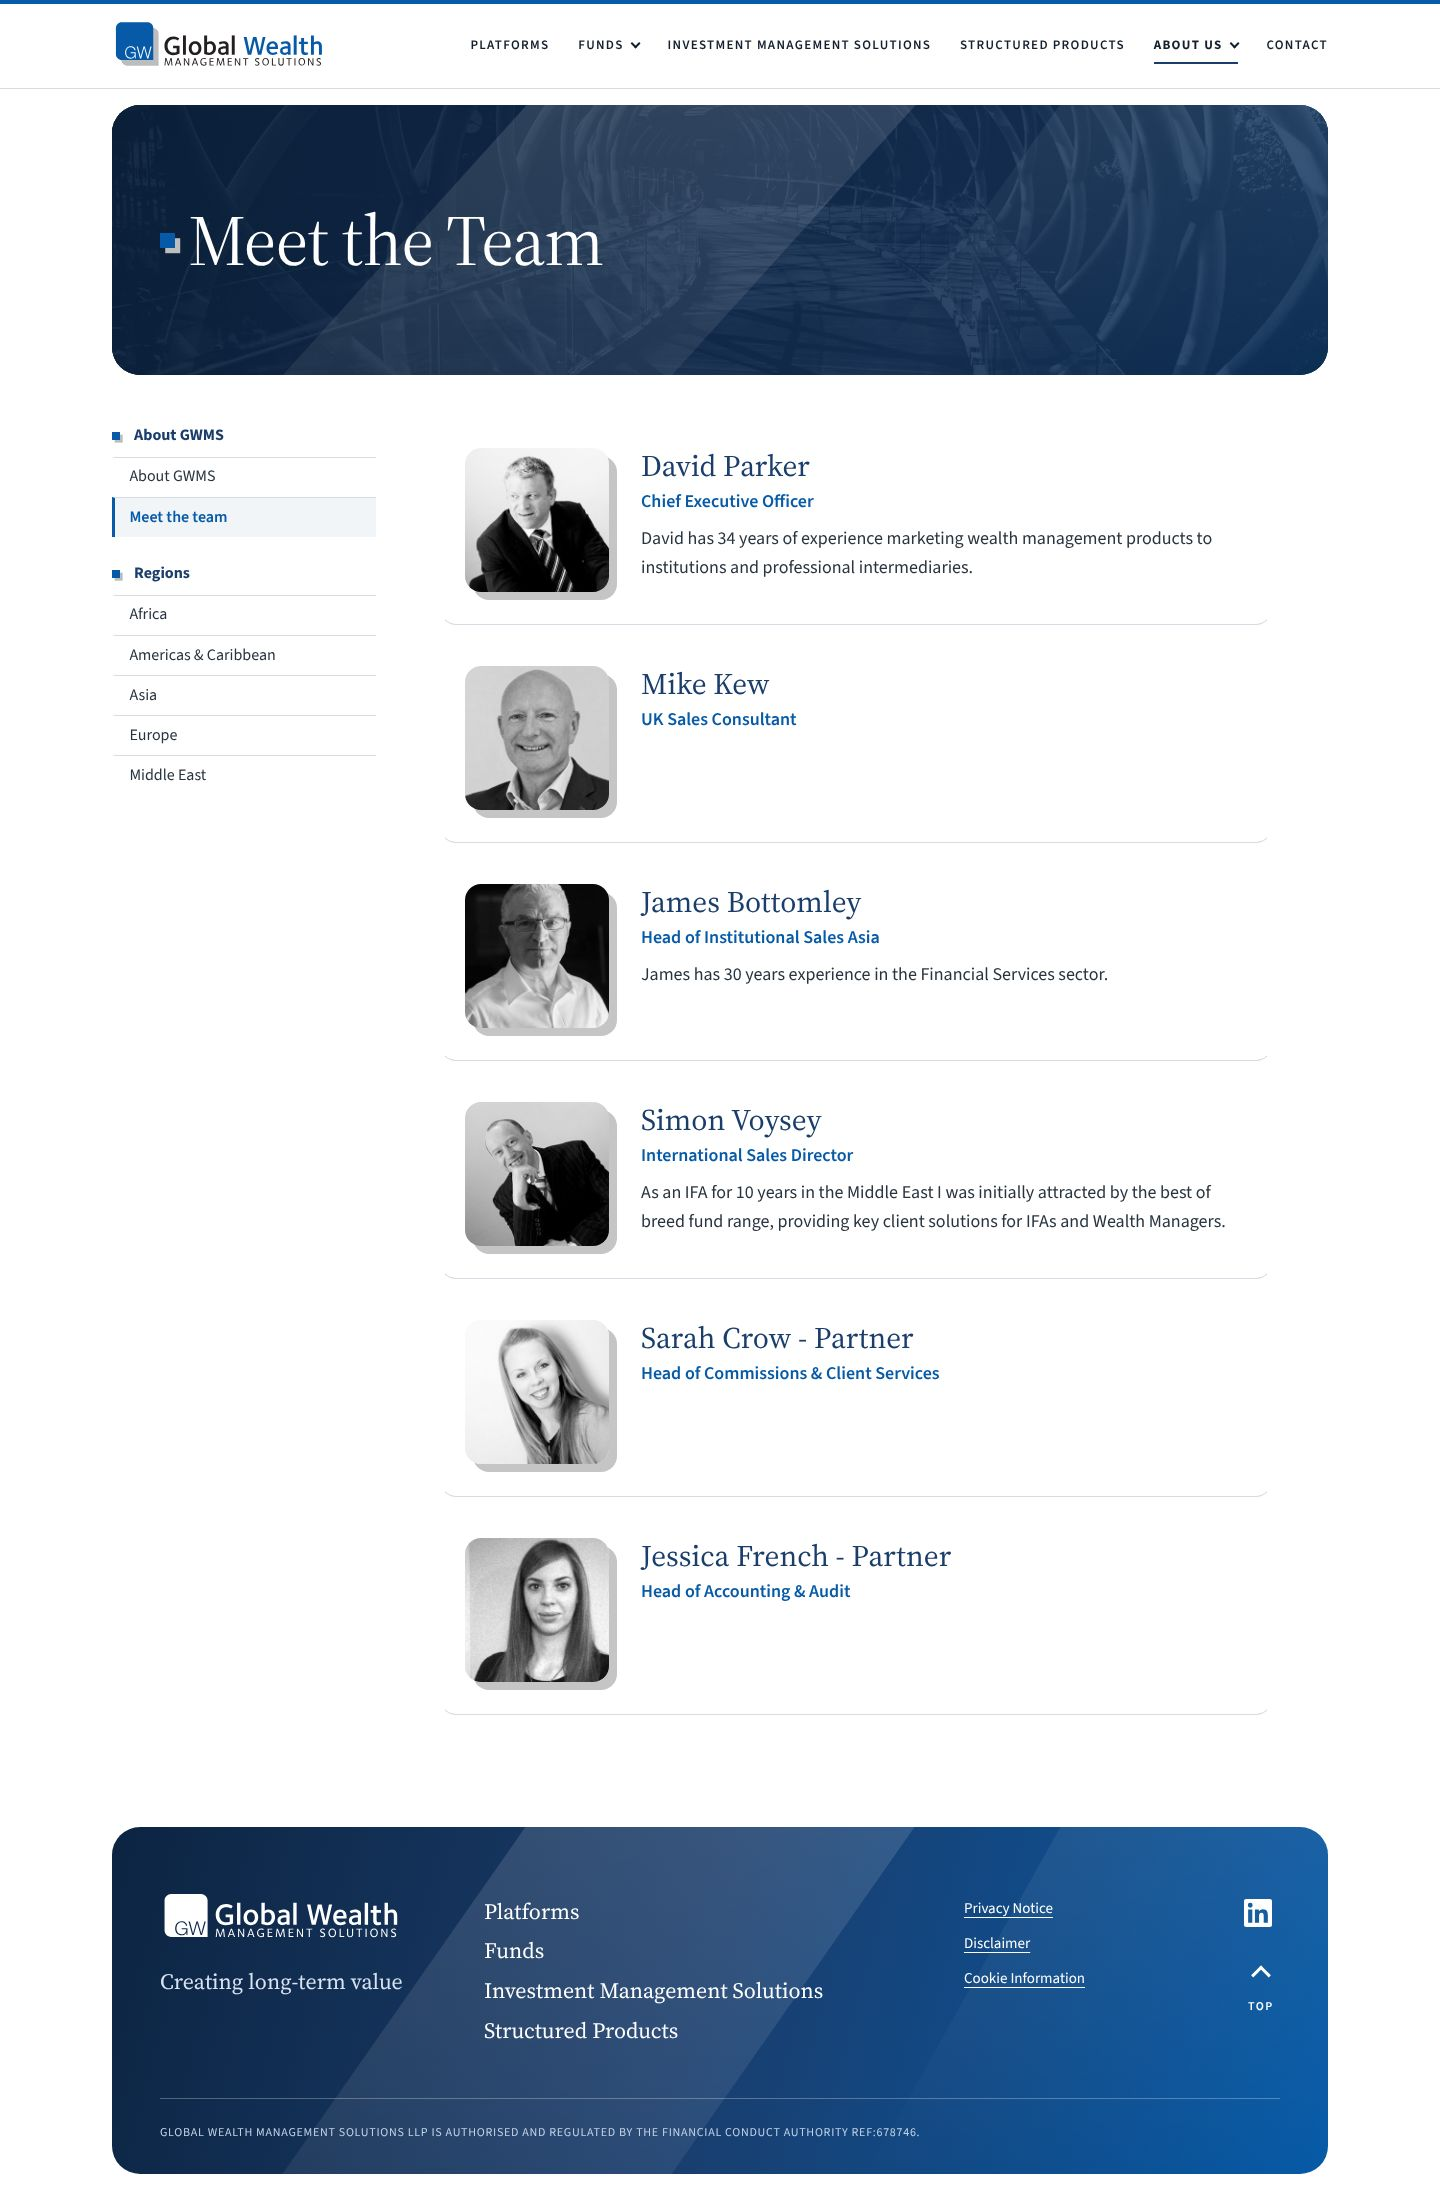
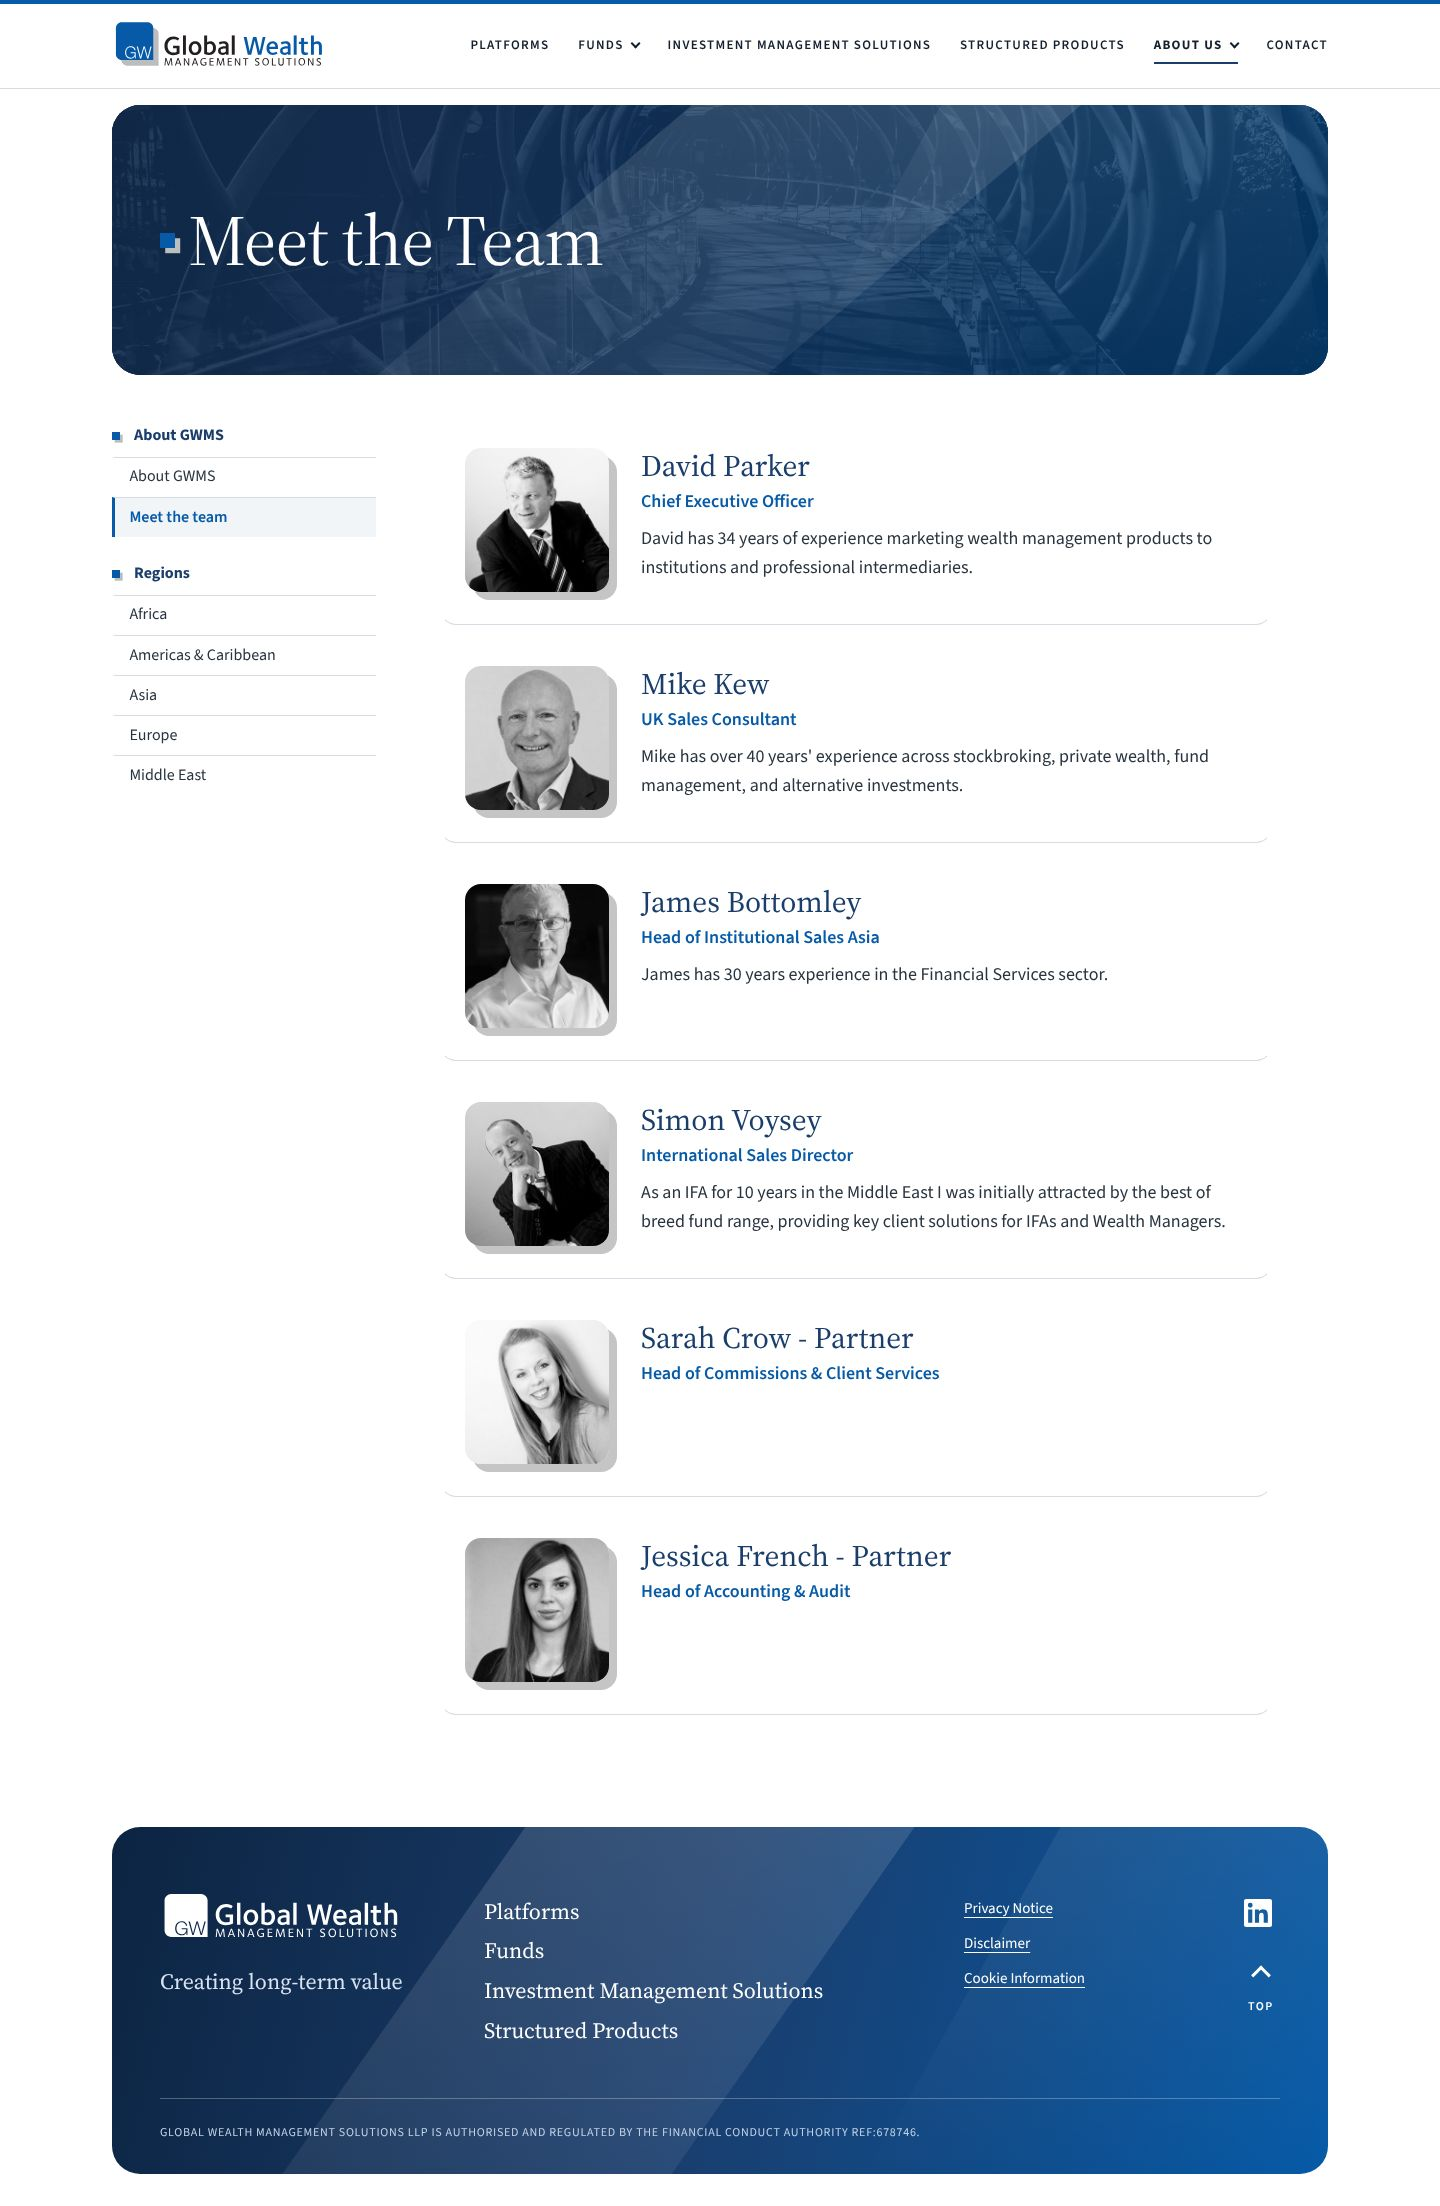
Meet the Team: short bio line on Mike Kew's card
Claude-Session: https://claude.ai/code/session_01Vdz9cEpY9e2nZicQTN6XQm

diff --git a/dist/meet-the-team.html b/dist/meet-the-team.html
@@ -160,7 +160,7 @@
   <div class="member__text">
     <h2 class="member__name"><a href="team-mike-kew.html">Mike Kew</a></h2>
     <p class="member__role">UK Sales Consultant</p>
-    
+    <p class="member__bio">Mike has over 40 years' experience across stockbroking, private wealth, fund management, and alternative investments.</p>
   </div>
 </li>
 <li class="member">

diff --git a/tools/make_preview.py b/tools/make_preview.py
@@ -596,7 +596,7 @@ add("/about-gwms", "Exceptional wealth management solutions",
 
 TEAM = [  # name, role, bio (verbatim), slug
     ("David Parker", "Chief Executive Officer", "David has 34 years of experience marketing wealth management products to institutions and professional intermediaries.", "david-parker"),
-    ("Mike Kew", "UK Sales Consultant", "", "mike-kew"),
+    ("Mike Kew", "UK Sales Consultant", "Mike has over 40 years' experience across stockbroking, private wealth, fund management, and alternative investments.", "mike-kew"),
     ("James Bottomley", "Head of Institutional Sales Asia", "James has 30 years experience in the Financial Services sector.", "james-bottomley"),
     ("Simon Voysey", "International Sales Director", "As an IFA for 10 years in the Middle East I was initially attracted by the best of breed fund range, providing key client solutions for IFAs and Wealth Managers.", "simon-voysey"),
     ("Sarah Crow - Partner", "Head of Commissions & Client Services", "", "sarah-crow"),

diff --git a/docs/10-build-and-test-results.md b/docs/10-build-and-test-results.md
@@ -146,3 +146,4 @@ Page text replaced with owner-supplied copy (four headed sections plus the closi
 - Pages without a left-hand menu that have a banner (Platforms, Investment Management Solutions, Structured Products, Contact) are offset on desktop (>= 52rem) so the content's left edge lines up with the banner heading text (padding-left = gutter + 0.39 x banner title size; measured within 0.1 px at 840 and 1440 px widths).
 - Privacy Notice, Disclaimer and Cookie Information now have a left-hand 'Legal' menu listing the three pages (so are excluded from the offset). 'Legal' as the group label is new (it matches the footer list's accessible name).
 - Legal pages (Privacy Notice, Disclaimer, Cookie Information): heading and rule moved to their own row offset by the menu column, so the Legal menu and the text start level (both at the same top, measured); the menu stays sticky on scroll (measured: sits 112 px from the viewport top).
+- Meet the Team: Mike Kew's list card shows a short edited bio line (owner-supplied wording); his full bio stays on his own page.
